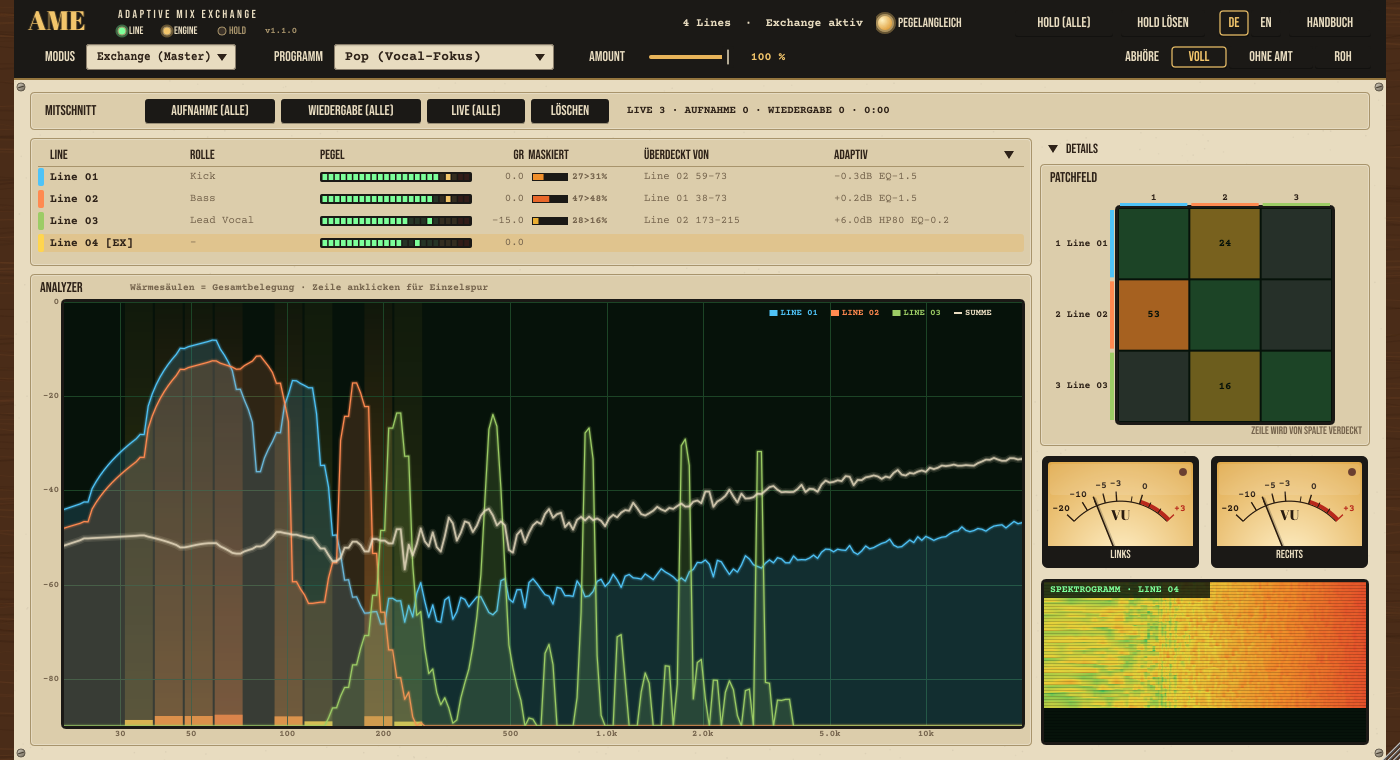
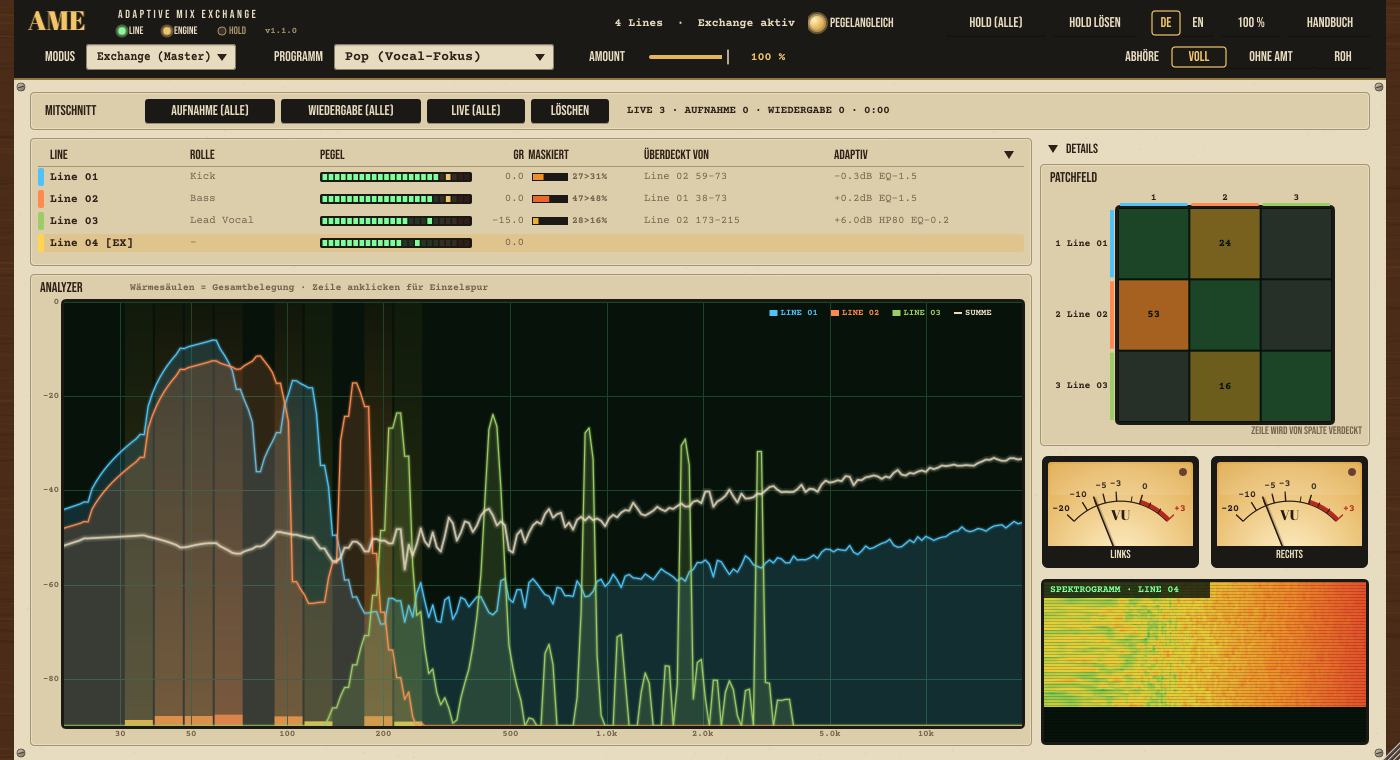
AME 1.1.0 – window size menu, fit to screen
Header button with 50-200 % sizes (works when the resize corner is off-screen);
window shrinks to the work area of its monitor, also after moving (not stored).

Claude-Session: https://claude.ai/code/session_01N9kTEQzaPKwDpgo6MqLZkV

Changed region(s): [[0.5529, 0.0, 0.9214, 0.0605], [0.7371, 0.8171, 0.8293, 0.9382]]

diff --git a/Source/PluginEditor.cpp b/Source/PluginEditor.cpp
@@ -124,6 +124,24 @@ MainView::MainView (AmeProcessor& p)
     manualButton.onClick = [this] { showHandbook (manualButton.getToggleState()); };
     addAndMakeVisible (manualButton);
 
+    // Fenstergröße per Menü (funktioniert auch, wenn die Zieh-Ecke außerhalb des Bildschirms liegt)
+    zoomButton.onClick = [this]
+    {
+        juce::PopupMenu m;
+        m.addSectionHeader (tr ("Fenstergröße", "Window size"));
+        const int steps[] { 50, 60, 70, 80, 90, 100, 110, 125, 150, 175, 200 };
+        const int cur = juce::roundToInt (shownScale * 100.0f);
+        for (int pc : steps)
+            m.addItem (pc, juce::String (pc) + " %", true, std::abs (pc - cur) <= 2);
+        m.showMenuAsync (juce::PopupMenu::Options().withTargetComponent (&zoomButton),
+                         [safe = juce::Component::SafePointer<MainView> (this)] (int r)
+                         {
+                             if (safe != nullptr && r > 0 && safe->onScaleChosen)
+                                 safe->onScaleChosen ((float) r / 100.0f);
+                         });
+    };
+    addAndMakeVisible (zoomButton);
+
     addChildComponent (strip);
     addChildComponent (overview);
     addChildComponent (handbook);
@@ -195,6 +213,8 @@ void MainView::updateTexts()
     releaseAllButton.setButtonText (tr ("Hold lösen", "Release"));
     manualButton.setButtonText (tr ("HANDBUCH", "MANUAL"));
     manualButton.setTooltip (tr ("Handbuch öffnen", "Open the manual"));
+    zoomButton.setTooltip (tr ("Fenstergröße wählen (gilt für alle AME-Fenster)", "Choose the window size (applies to all AME windows)"));
+    setScaleDisplay (shownScale);
 
     const bool en = i18n::isEnglish();
     langDe.setToggleState (! en, juce::dontSendNotification);
@@ -207,6 +227,12 @@ void MainView::updateTexts()
     handbook.loadForCurrentLanguage();
     frame = 2;   // Statuszeile beim nächsten Tick neu
     repaint();
+}
+
+void MainView::setScaleDisplay (float s)
+{
+    shownScale = s;
+    zoomButton.setButtonText (juce::String (juce::roundToInt (s * 100.0f)) + " %");
 }
 
 void MainView::languageChanged()
@@ -465,6 +491,8 @@ void MainView::resized()
         auto r = line1;
         manualButton.setBounds (r.removeFromRight (84).reduced (0, 1));
         r.removeFromRight (6);
+        zoomButton.setBounds (r.removeFromRight (62).reduced (0, 1));
+        r.removeFromRight (6);
         langEn.setBounds (r.removeFromRight (32).reduced (0, 1));
         langDe.setBounds (r.removeFromRight (32).reduced (0, 1));
         r.removeFromRight (12);
@@ -609,9 +637,42 @@ AmeEditor::AmeEditor (AmeProcessor& p)
     if (auto* c = getConstrainer())
         c->setFixedAspectRatio ((double) w / (double) h);
 
+    view.onScaleChosen = [this] (float s) { setUiScale (s); };
+
     const float stored = ame::settings::get ("uiScale", "0.9").getFloatValue();
     const float s = juce::jlimit (0.5f, 2.0f, stored > 0.0f ? stored : 0.9f);
     setSize (juce::roundToInt ((float) w * s), juce::roundToInt ((float) h * s));
+
+    // Monitor prüfen (beim Öffnen und nach dem Verschieben auf einen kleineren Bildschirm)
+    startTimer (500);
+}
+
+void AmeEditor::setUiScale (float s)
+{
+    s = juce::jlimit (0.5f, 2.0f, s);
+    setSize (juce::roundToInt ((float) MainView::baseWidth * s), juce::roundToInt ((float) MainView::baseHeight * s));
+    ame::settings::set ("uiScale", juce::String (s, 3));
+}
+
+void AmeEditor::fitToScreen()
+{
+    if (! isShowing())
+        return;
+    const auto screen = getScreenBounds();
+    const auto* display = juce::Desktop::getInstance().getDisplays().getDisplayForRect (screen);
+    if (display == nullptr)
+        return;
+
+    // Platz für Titelleiste/Rahmen des Host-Fensters lassen
+    const auto area = display->userArea;
+    const float maxW = (float) area.getWidth() - 16.0f, maxH = (float) area.getHeight() - 64.0f;
+    if ((float) getWidth() <= maxW + 1.0f && (float) getHeight() <= maxH + 1.0f)
+        return;
+
+    const float fit = std::floor (juce::jmax (0.5f, juce::jmin (maxW / (float) MainView::baseWidth,
+                                                                maxH / (float) MainView::baseHeight)) * 100.0f) / 100.0f;
+    const juce::ScopedValueSetter<bool> svs (autoFitting, true);
+    setSize (juce::roundToInt ((float) MainView::baseWidth * fit), juce::roundToInt ((float) MainView::baseHeight * fit));
 }
 
 AmeEditor::~AmeEditor() = default;
@@ -621,11 +682,12 @@ void AmeEditor::resized()
     const float s = (float) getWidth() / (float) MainView::baseWidth;
     view.setBounds (0, 0, MainView::baseWidth, MainView::baseHeight);
     view.setTransform (juce::AffineTransform::scale (s));
+    view.setScaleDisplay (s);
 
     if (std::abs (s - scale) > 0.005f)
     {
         scale = s;
-        if (isShowing())   // nur Änderungen durch den Nutzer merken
+        if (isShowing() && ! autoFitting)   // nur Änderungen durch den Nutzer merken
             ame::settings::set ("uiScale", juce::String (s, 3));
     }
 }

diff --git a/Source/PluginEditor.h b/Source/PluginEditor.h
@@ -31,6 +31,10 @@ public:
     ame::ui::HandbookView& getHandbook() { return handbook; }
     ame::ui::StripPanel& getStrip() { return strip; }
 
+    // Größenwahl im Kopf (wirkt über den Editor)
+    std::function<void (float)> onScaleChosen;
+    void setScaleDisplay (float s);
+
 private:
     using ComboAttachment  = juce::AudioProcessorValueTreeState::ComboBoxAttachment;
     using SliderAttachment = juce::AudioProcessorValueTreeState::SliderAttachment;
@@ -62,7 +66,8 @@ private:
     juce::Label learnBarLabel, learnStatus;                 // Exchange: Mitschnitt aller Lines
     juce::TextButton learnRecAll, learnPlayAll, learnLiveAll, learnClearAll;
     juce::Rectangle<int> learnBar;
-    juce::TextButton langDe { "DE" }, langEn { "EN" }, manualButton;
+    juce::TextButton langDe { "DE" }, langEn { "EN" }, manualButton, zoomButton;
+    float shownScale = 1.0f;
     std::unique_ptr<juce::AudioProcessorValueTreeState::ButtonAttachment> globalBypassAtt;
 
     std::unique_ptr<ComboAttachment> modeAtt, roleAtt, genreAtt;
@@ -79,7 +84,8 @@ private:
     JUCE_DECLARE_NON_COPYABLE_WITH_LEAK_DETECTOR (MainView)
 };
 
-class AmeEditor : public juce::AudioProcessorEditor
+class AmeEditor : public juce::AudioProcessorEditor,
+                  private juce::Timer
 {
 public:
     explicit AmeEditor (AmeProcessor&);
@@ -92,10 +98,15 @@ public:
     ame::ui::HandbookView& getHandbook()       { return view.getHandbook(); }
     ame::ui::StripPanel& getStrip()            { return view.getStrip(); }
     float getScale() const noexcept            { return scale; }
+    void setUiScale (float s);                 // 0.5 … 2.0, wird gespeichert
+    void fitToScreen();                        // verkleinert, falls größer als die Arbeitsfläche des Monitors
 
 private:
+    void timerCallback() override { fitToScreen(); }
+
     MainView view;
     float scale = 1.0f;
+    bool autoFitting = false;   // automatische Verkleinerung nicht als Nutzerwahl speichern
 
     JUCE_DECLARE_NON_COPYABLE_WITH_LEAK_DETECTOR (AmeEditor)
 };

diff --git a/Tests/SmokeTest.cpp b/Tests/SmokeTest.cpp
@@ -956,6 +956,13 @@ int main (int argc, char** argv)
         std::unique_ptr<juce::AudioProcessorEditor> edT (vocal->createEditor());
         std::unique_ptr<juce::AudioProcessorEditor> edM (master->createEditor());
         CHECK (edT->getWidth() * 760 == edT->getHeight() * 1400);   // Querformat, Seitenverhältnis fest
+        if (auto* ame = dynamic_cast<AmeEditor*> (edT.get()))
+        {
+            ame->setUiScale (0.75f);   // Größenwahl im Kopf
+            CHECK (ame->getWidth() == 1050 && ame->getHeight() == 570);
+            CHECK (ame::settings::get ("uiScale").getFloatValue() == 0.75f);
+            ame->setUiScale (1.0f);
+        }
         for (int f = 0; f < 40; ++f) { runAll (3); juce::MessageManager::getInstance()->runDispatchLoopUntil (33); }
         snapshot (*edT, outDir.getChildFile ("ui_track_folded.png"));
         snapshot (*edM, outDir.getChildFile ("ui_master_folded.png"));

diff --git a/docs/manual/handbuch_de.md b/docs/manual/handbuch_de.md
@@ -157,7 +157,7 @@ Die LED-Anzeige unten zeigt die aktuelle Absenkung je Oktavband (31 Hz–16 kHz,
 - **Typenschild**: Version, Line-Nummer, Spurname (aus der DAW), Rolle und aktives Programm.
 
 ### Fenstergröße und Klappbereiche
-Das Fenster ist im Querformat angelegt (Basis 1400 × 760) und passt damit auch auf Full-HD-Bildschirme (1080p, auch mit 125 % Windows-Skalierung). An der Ecke unten rechts lässt es sich stufenlos von 50 bis 200 % skalieren. Die zuletzt gewählte Größe gilt für alle AME-Fenster.
+Das Fenster ist im Querformat angelegt (Basis 1400 × 760) und passt damit auch auf Full-HD-Bildschirme (1080p, auch mit 125 % Windows-Skalierung). An der Ecke unten rechts lässt es sich stufenlos von 50 bis 200 % skalieren, alternativ über die Prozent-Taste im Kopf (neben HANDBUCH). Die zuletzt gewählte Größe gilt für alle AME-Fenster. Ist das Fenster größer als der Monitor, auf dem es liegt (z. B. Größe auf einem Ultrawide gewählt, dann auf einen 1080p-Monitor geschoben), verkleinert AME es automatisch.
 
 Einklappbar (Dreieck nach unten = offen, nach rechts = eingeklappt): an der Line **ADAPTIV** und das **Spektrogramm**, im Exchange die **Line-Liste** und die rechte Spalte **DETAILS** (Patchfeld, VU, Spektrogramm). Der Platz geht an EQ bzw. Analyzer. Der Zustand gilt für alle AME-Fenster und wird gespeichert.
 

diff --git a/docs/manual/manual_en.md b/docs/manual/manual_en.md
@@ -157,7 +157,7 @@ The LED display at the bottom shows the current cut per octave band (31 Hz–16 
 - **Name plate**: version, Line number, track name (from the DAW), role and active program.
 
 ### Window size and folding sections
-The window uses a landscape layout (base 1400 × 760), so it also fits full-HD screens (1080p, even with 125 % Windows scaling). Drag the bottom-right corner to scale it freely from 50 to 200 %. The last size chosen applies to all AME windows.
+The window uses a landscape layout (base 1400 × 760), so it also fits full-HD screens (1080p, even with 125 % Windows scaling). Drag the bottom-right corner to scale it freely from 50 to 200 %, or use the percentage button in the header (next to MANUAL). The last size chosen applies to all AME windows. If the window is larger than the monitor it is on (e.g. size chosen on an ultrawide, then moved to a 1080p monitor), AME shrinks it automatically.
 
 Foldable (triangle down = open, right = folded): on a Line **ADAPTIVE** and the **spectrogram**, on the Exchange the **line list** and the right-hand **DETAILS** column (patchbay, VU, spectrogram). The space goes to the EQ or analyser. The state applies to all AME windows and is remembered.
 

diff --git a/CHANGELOG.md b/CHANGELOG.md
@@ -4,6 +4,8 @@
 - **Landscape window**: base size 1400 × 760 instead of 1100 × 960 – fits 1080p screens, also with 125 % Windows scaling; still scalable 50–200 % with a fixed aspect ratio
 - Line: ADAPTIVE moved next to the EQ (vertical column), status and applied values on two lines; VU meters and type plate more compact
 - Exchange: patchbay, VU left/right and spectrogram in a right-hand column; line list and analyser on the left
+- **Window size menu** in the header (50–200 %), usable even when the resize corner is off-screen
+- **Fit to screen**: if the window is larger than the work area of the monitor it is on (e.g. size chosen on an ultrawide, then moved to a 1080p screen), it shrinks automatically – also after moving; this automatic size is not stored
 - **Folding sections** (triangle): Line – ADAPTIVE and spectrogram; Exchange – line list and DETAILS column. The freed space goes to the EQ or analyser; state is global and remembered (user settings)
 - Smoke test: folded screenshots, aspect ratio and stored fold state
 

diff --git a/.github/release-notes/v1.1.0.md b/.github/release-notes/v1.1.0.md
@@ -5,6 +5,7 @@ A networked, adaptive channel strip (VST3, Windows x64). Put AME on your tracks 
 ### What's new in 1.1.0
 - **Landscape window** (base 1400 × 760 instead of 1100 × 960): fits 1080p screens, also with 125 % Windows scaling
 - Line: ADAPTIVE now sits next to the EQ; Exchange: patchbay, VU and spectrogram in a right-hand column
+- Window size menu in the header; the window shrinks automatically to fit smaller monitors
 - **Folding sections**: ADAPTIVE and spectrogram (Line), line list and DETAILS column (Exchange) – the space goes to the EQ or analyser; state is remembered
 
 ### Highlights
